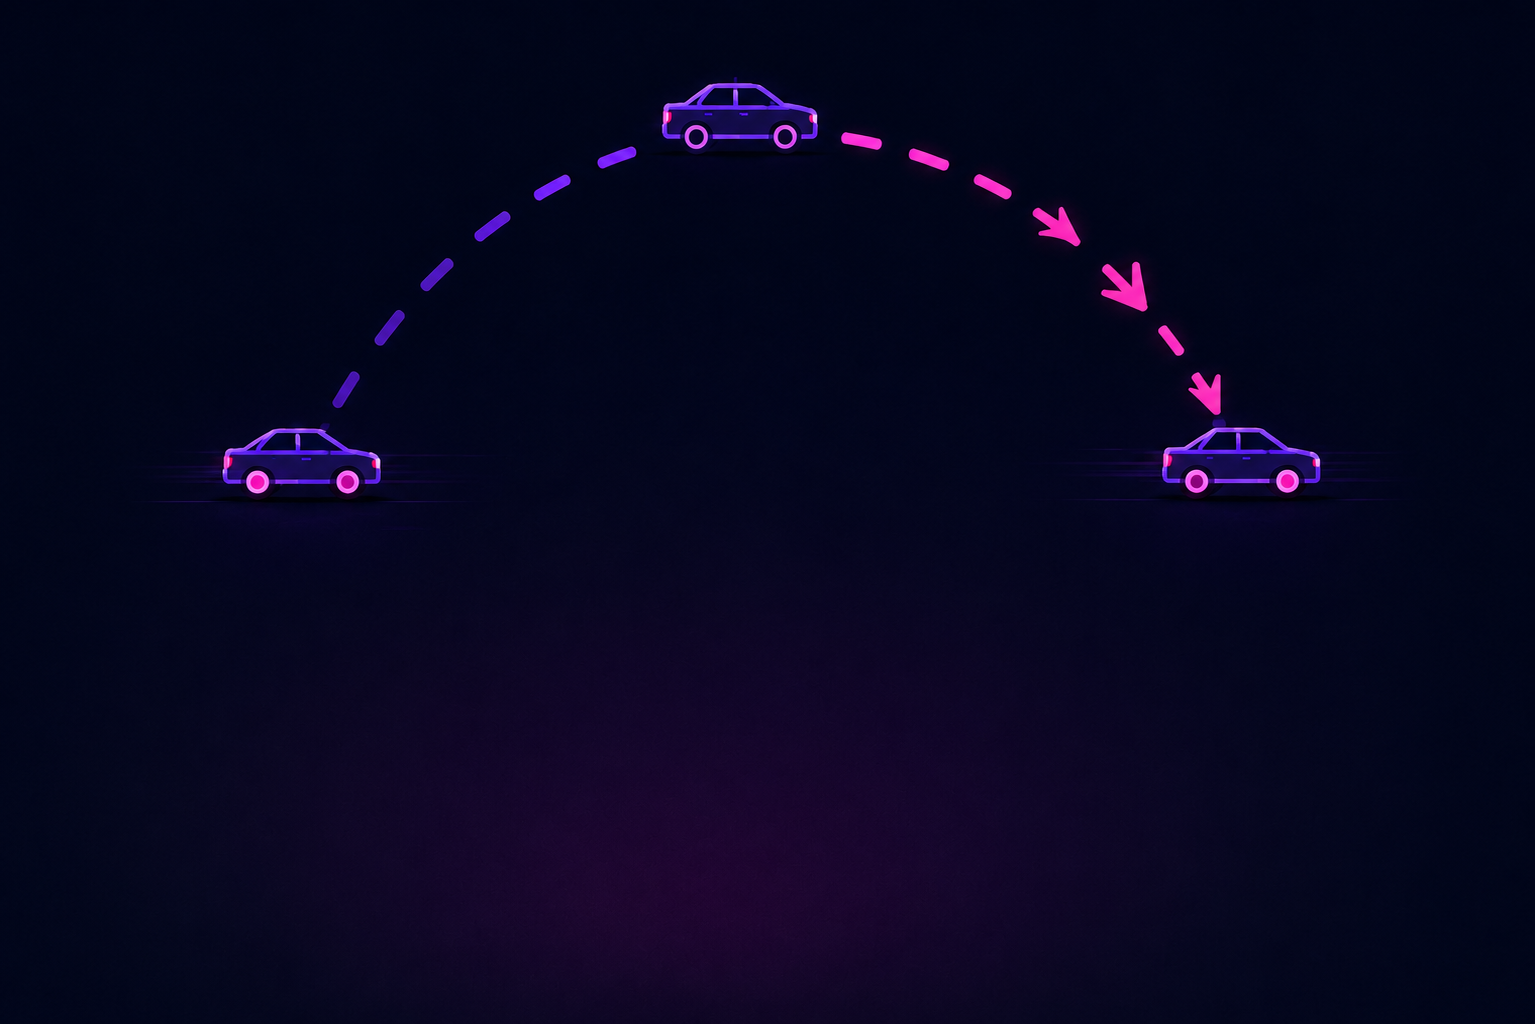
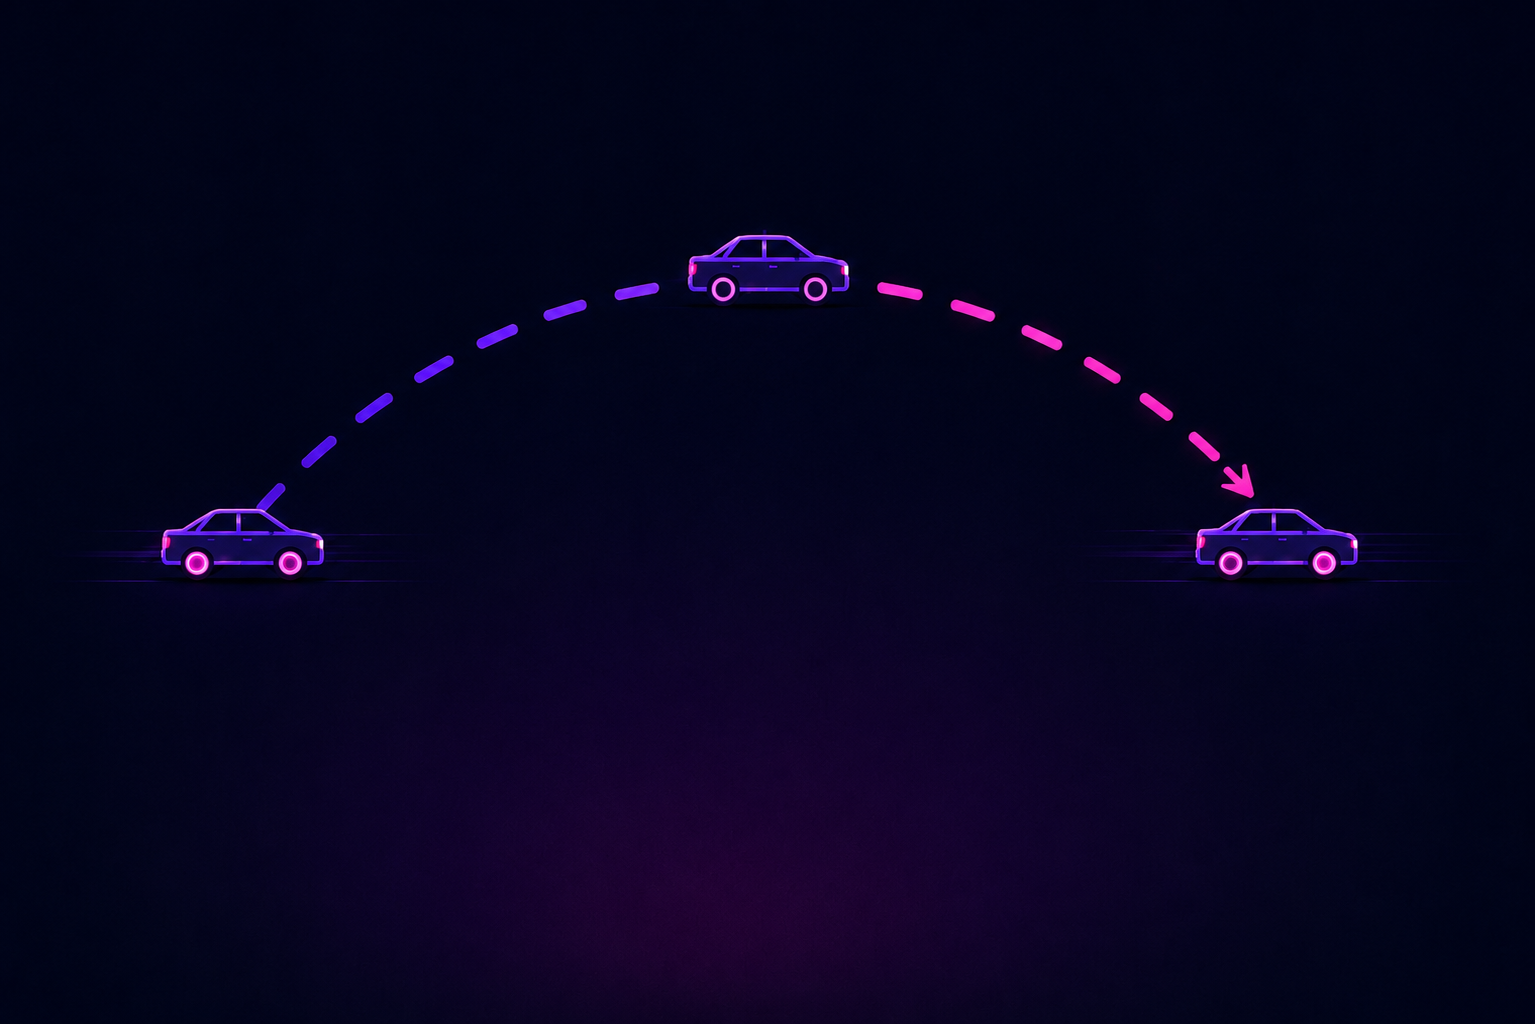
implemented conclusion page

diff --git a/index.html b/index.html
@@ -14,6 +14,7 @@
 <link rel="stylesheet" href="css/cases.css">
 <link rel="stylesheet" href="css/applications.css">
 <link rel="stylesheet" href="css/limitations.css">
+<link rel="stylesheet" href="css/conclusion.css">
 <link rel="stylesheet" href="css/animations.css">
 <link rel="stylesheet" href="css/responsive.css">
 </head>
@@ -360,17 +361,88 @@
 
 <!-- ============================= CONCLUSION ============================= -->
 <section class="conclusion" id="conclusion">
+  <div class="conclusion__bg"><span></span><span></span>
+    <svg viewBox="0 0 720 80" preserveAspectRatio="none" stroke-width="2"><path d="M0 60 Q 90 0 180 60 T 360 60 T 540 60 T 720 60"/></svg>
+    <svg viewBox="0 0 720 80" preserveAspectRatio="none" stroke-width="2"><path d="M0 60 Q 90 0 180 60 T 360 60 T 540 60 T 720 60"/></svg>
+  </div>
   <div class="wrap">
-    <div class="conclusion__box glass reveal">
-      <div>
-        <span class="eyebrow">CONCLUSION</span>
-        <h2>One idea, heard everywhere</h2>
-        <p>From a passing ambulance to the redshifted light of a distant galaxy, the Doppler effect is the same simple idea wearing different clothes: motion changes what a wave looks like to whoever receives it. Nine cases, one master formula â€” and once the sign convention clicks, every siren, whistle, and radar reading on this page becomes predictable rather than mysterious.</p>
+    <div class="conclusion__grid">
+      <div class="conclusion__left">
+        <span class="eyebrow reveal">CONCLUSION</span>
+        <h2 class="conclusion__title">
+          <span class="reveal">The Journey Ends.</span>
+          <span class="reveal" style="transition-delay:.12s">The Understanding Begins.</span>
+        </h2>
+        <div class="conclusion__desc reveal" style="transition-delay:.2s">
+          <p>You explored how motion changes the frequency of sound through interactive simulations and real world examples.</p>
+          <p>From stationary objects to moving sources and observers, every case revealed the same physical principle.</p>
+          <p>You discovered how the Doppler Effect is used in transportation, weather forecasting, medical imaging, and speed detection.</p>
+          <p>Every situation may look different, but they all follow one simple idea.</p>
+          <p><strong>Motion changes how waves are observed.</strong></p>
+          <p>The Doppler Effect is now a concept you can visualize, understand, and confidently apply.</p>
+        </div>
+        <blockquote class="conclusion__quote reveal" style="transition-delay:.28s">
+          <p class="conclusion__quote-main">One Principle. Infinite Applications.</p>
+          <p class="conclusion__quote-sub">Every wave tells a different story <svg class="conclusion__quote-link" viewBox="0 0 24 24" width="16" height="16" fill="none" stroke="currentColor" stroke-width="2" stroke-linecap="round" stroke-linejoin="round"><path d="M22 12h-4l-3 9L9 3l-3 9H2"/></svg> only motion changes the language.</p>
+        </blockquote>
       </div>
-      <div class="conclusion__stats">
-        <div class="stat"><b>1842</b><span>First described by Christian Doppler</span></div>
-        <div class="stat"><b>9</b><span>Motion cases simulated on this page</span></div>
-        <div class="stat"><b>1</b><span>Formula governs every one of them</span></div>
+      <aside class="conclusion__right">
+        <svg width="0" height="0" style="position:absolute" aria-hidden="true"><defs>
+          <linearGradient id="goldGrad" x1="0" y1="0" x2="1" y2="1">
+            <stop offset="0" stop-color="#FFE9A8"/>
+            <stop offset=".5" stop-color="#F5B830"/>
+            <stop offset="1" stop-color="#C98A1B"/>
+          </linearGradient>
+        </defs></svg>
+        <div class="conclusion__cards">
+          <div class="conclusion__card reveal" style="transition-delay:.1s">
+            <span class="conclusion__card-icon"><img src="assets/icons/checked.png" alt="" width="56" height="56"></span>
+            <b class="conclusion__card-num">1842</b>
+            <span class="conclusion__card-title">Christian Doppler</span>
+            <span class="conclusion__card-desc">Published the Theory</span>
+          </div>
+          <div class="conclusion__card reveal" style="transition-delay:.16s">
+            <span class="conclusion__card-icon"><img src="assets/icons/checked.png" alt="" width="56" height="56"></span>
+            <b class="conclusion__card-num">10</b>
+            <span class="conclusion__card-title">Interactive Cases</span>
+            <span class="conclusion__card-desc">Successfully Explored</span>
+          </div>
+          <div class="conclusion__card reveal" style="transition-delay:.22s">
+            <span class="conclusion__card-icon"><img src="assets/icons/checked.png" alt="" width="56" height="56"></span>
+            <b class="conclusion__card-num">5</b>
+            <span class="conclusion__card-title">Real-World Applications</span>
+            <span class="conclusion__card-desc">Discovered</span>
+          </div>
+          <div class="conclusion__card reveal" style="transition-delay:.28s">
+            <span class="conclusion__card-icon"><img src="assets/icons/checked.png" alt="" width="56" height="56"></span>
+            <b class="conclusion__card-num">4</b>
+            <span class="conclusion__card-title">Model Limitations</span>
+            <span class="conclusion__card-desc">Understood</span>
+          </div>
+          <div class="conclusion__card reveal" style="transition-delay:.34s">
+            <span class="conclusion__card-icon"><img src="assets/icons/checked.png" alt="" width="56" height="56"></span>
+            <b class="conclusion__card-num">1</b>
+            <span class="conclusion__card-title">Universal Principle</span>
+            <span class="conclusion__card-desc">Behind Every Case</span>
+          </div>
+          <div class="conclusion__card reveal" style="transition-delay:.4s">
+            <span class="conclusion__card-icon"><img src="assets/icons/checked.png" alt="" width="56" height="56"></span>
+            <b class="conclusion__card-num">Complete</b>
+            <span class="conclusion__card-title">Learning Journey</span>
+            <span class="conclusion__card-desc">Finished</span>
+          </div>
+        </div>
+      </aside>
+    </div>
+
+    <div class="conclusion__divider"></div>
+
+    <div class="conclusion__cta reveal">
+      <h3>Continue Exploring Physics</h3>
+      <p>Great discoveries begin with curiosity.<br>Replay the simulations, revisit the theory, or explore the real-world applications once again.</p>
+      <div class="conclusion__cta-btns">
+        <a href="#explore" class="conclusion__btn conclusion__btn--primary">Launch Simulations <svg viewBox="0 0 24 24" width="16" height="16" fill="none" stroke="currentColor" stroke-width="2.2" stroke-linecap="round" stroke-linejoin="round"><path d="M12 4v12m0 0 5-5m-5 5-5-5"/></svg></a>
+        <a href="#applications" class="conclusion__btn conclusion__btn--ghost">Explore Applications</a>
       </div>
     </div>
   </div>

diff --git a/css/conclusion.css b/css/conclusion.css
@@ -1,0 +1,168 @@
+/* ============================= CONCLUSION ============================= */
+.conclusion{
+  position:relative;overflow:hidden;padding:90px 0 120px;
+  background:#050816;
+}
+
+/* ---------- decorative background ---------- */
+.conclusion__bg{position:absolute;inset:0;z-index:0;pointer-events:none;overflow:hidden;}
+.conclusion__bg::before{
+  content:'';position:absolute;width:720px;height:720px;border-radius:50%;
+  background:radial-gradient(circle,rgba(94,162,255,.1),transparent 65%);
+  top:-260px;right:-160px;filter:blur(60px);
+}
+.conclusion__bg::after{
+  content:'';position:absolute;width:640px;height:640px;border-radius:50%;
+  background:radial-gradient(circle,rgba(139,92,246,.1),transparent 65%);
+  bottom:-240px;left:-140px;filter:blur(70px);
+}
+.conclusion__bg span{
+  position:absolute;border-radius:50%;filter:blur(40px);
+}
+.conclusion__bg span:nth-child(1){
+  width:300px;height:300px;background:radial-gradient(circle,rgba(94,162,255,.08),transparent 70%);
+  top:20%;left:42%;
+}
+.conclusion__bg span:nth-child(2){
+  width:240px;height:240px;background:radial-gradient(circle,rgba(43,232,201,.06),transparent 70%);
+  bottom:12%;right:16%;
+}
+.conclusion__bg svg{position:absolute;width:130%;height:140px;left:-15%;opacity:.04;stroke:#5EA2FF;fill:none;}
+.conclusion__bg svg:nth-of-type(1){top:28%;}
+.conclusion__bg svg:nth-of-type(2){bottom:20%;transform:scaleY(-1);stroke:#8B5CF6;}
+
+.conclusion .wrap{position:relative;z-index:1;}
+
+/* ---------- two-column layout ---------- */
+.conclusion__grid{display:grid;grid-template-columns:1.5fr 1fr;gap:64px;align-items:start;margin-bottom:100px;}
+.conclusion__right{margin-top:40px;}
+
+/* ---------- left: label / title / paragraphs / quote ---------- */
+.conclusion__left{min-width:0;}
+.conclusion__left .eyebrow{margin-bottom:20px;}
+.conclusion__title{
+  font-family:'Space Grotesk',var(--font-display);
+  font-size:clamp(44px,5.5vw,70px);font-weight:700;letter-spacing:-.02em;
+  line-height:1.02;color:#fff;margin-bottom:30px;
+}
+.conclusion__title span{display:block;}
+.conclusion__title span:last-child{
+  font-style:normal;
+  background:linear-gradient(120deg,#C77DFF,#9B5CFB);
+  -webkit-background-clip:text;background-clip:text;-webkit-text-fill-color:transparent;
+  filter:drop-shadow(0 0 26px rgba(155,92,251,.4));
+}
+.conclusion__desc{max-width:650px;}
+.conclusion__desc p{
+  font-family:'Nunito',sans-serif;font-size:18px;line-height:1.8;
+  color:rgba(255,255,255,.82);margin-bottom:18px;text-align:justify;
+}
+.conclusion__desc p:last-child{margin-bottom:0;}
+.conclusion__desc p strong{
+  color:#fff;font-weight:700;
+  background:linear-gradient(120deg,#5EA2FF,#8B5CF6);
+  -webkit-background-clip:text;background-clip:text;-webkit-text-fill-color:transparent;
+}
+
+.conclusion__quote{
+  margin:36px 0 0;padding:26px 30px;border-radius:20px;
+  background:linear-gradient(150deg,rgba(255,255,255,.05),rgba(255,255,255,.015));
+  backdrop-filter:blur(20px) saturate(140%);
+  -webkit-backdrop-filter:blur(20px) saturate(140%);
+  border:1px solid rgba(255,255,255,.09);
+  box-shadow:inset 0 1px 0 rgba(255,255,255,.05), 0 0 44px rgba(139,92,246,.14);
+}
+.conclusion__quote-main{
+  font-family:'Space Grotesk',var(--font-display);font-style:italic;
+  font-size:clamp(22px,2.6vw,30px);font-weight:800;letter-spacing:-.01em;
+  margin-bottom:8px;
+  background:linear-gradient(120deg,#5EA2FF,#8B5CF6);
+  -webkit-background-clip:text;background-clip:text;-webkit-text-fill-color:transparent;
+}
+.conclusion__quote-sub{font-family:'Nunito',sans-serif;font-size:15.5px;line-height:1.7;color:var(--text-dim);}
+.conclusion__quote-link{
+  display:inline-block;vertical-align:-2px;margin:0 3px;
+  stroke:url(#goldGrad);filter:drop-shadow(0 0 5px rgba(247,201,72,.4));
+}
+
+/* ---------- right: learning summary cards ---------- */
+.conclusion__cards{display:grid;gap:14px;}
+.conclusion__card{
+  position:relative;display:grid;grid-template-columns:auto 1fr;grid-template-rows:auto auto;
+  column-gap:16px;row-gap:2px;align-items:center;
+  padding:16px 20px;border-radius:18px;
+  background:rgba(255,255,255,.04);
+  border:1px solid rgba(255,255,255,.08);
+  transition:transform .35s ease,box-shadow .35s ease,border-color .35s ease;
+}
+.conclusion__card:hover{
+  transform:translateY(-6px) scale(1.02);
+  border-color:color-mix(in srgb,#5EA2FF 45%,transparent);
+  box-shadow:0 18px 44px -18px rgba(0,0,0,.7), 0 0 34px rgba(94,162,255,.16);
+}
+.conclusion__card-icon{
+  grid-row:1 / 3;grid-column:1;
+  display:flex;align-items:center;justify-content:center;
+}
+.conclusion__card-icon img{
+  width:56px;height:56px;object-fit:contain;display:block;
+}
+.conclusion__card-num{
+  grid-column:2;align-self:end;
+  font-family:'Space Grotesk',var(--font-display);font-size:23px;font-weight:800;line-height:1.2;
+  background:linear-gradient(120deg,#5EEAD4,#22D3EE);
+  -webkit-background-clip:text;background-clip:text;-webkit-text-fill-color:transparent;
+}
+.conclusion__card-title{
+  grid-column:2;align-self:start;
+  font-family:'Space Grotesk',var(--font-display);font-size:15.5px;font-weight:600;
+  color:var(--text);letter-spacing:.02em;
+}
+.conclusion__card-desc{
+  grid-column:2;font-family:'Nunito',sans-serif;font-size:12px;
+  color:var(--text-mute);line-height:1.4;
+}
+
+/* ---------- bottom divider ---------- */
+.conclusion__divider{
+  height:1px;margin-bottom:90px;position:relative;
+  background:linear-gradient(90deg,transparent,rgba(94,162,255,.5),rgba(139,92,246,.5),transparent);
+  box-shadow:0 0 18px rgba(110,140,255,.25);
+}
+
+/* ---------- final CTA ---------- */
+.conclusion__cta{text-align:center;max-width:720px;margin:0 auto;}
+.conclusion__cta h3{
+  font-family:'Space Grotesk',var(--font-display);
+  font-size:clamp(30px,4vw,44px);font-weight:800;letter-spacing:-.02em;
+  color:#fff;margin-bottom:16px;
+}
+.conclusion__cta p{
+  font-family:'Nunito',sans-serif;font-size:17px;line-height:1.8;
+  color:rgba(255,255,255,.78);margin-bottom:38px;
+}
+.conclusion__cta-btns{display:flex;justify-content:center;align-items:center;gap:18px;flex-wrap:wrap;}
+.conclusion__btn{
+  display:inline-flex;align-items:center;justify-content:center;gap:10px;
+  padding:16px 34px;border-radius:999px;text-decoration:none;
+  font-family:'Space Grotesk',var(--font-display);font-size:15.5px;font-weight:700;
+  transition:transform .3s ease,box-shadow .3s ease,background .3s ease,color .3s ease,border-color .3s ease;
+}
+.conclusion__btn--primary{
+  background:linear-gradient(135deg,#4F7DFF,#8B5CF6);
+  color:#fff;box-shadow:0 16px 40px -14px rgba(94,162,255,.5);
+}
+.conclusion__btn--primary:hover{
+  transform:translateY(-3px);
+  box-shadow:0 22px 50px -14px rgba(139,92,246,.6);
+}
+.conclusion__btn--ghost{
+  background:transparent;color:#fff;
+  border:1px solid rgba(255,255,255,.22);
+}
+.conclusion__btn--ghost:hover{
+  transform:translateY(-3px);
+  background:rgba(79,125,255,.22);
+  border-color:#5EA2FF;
+  box-shadow:0 14px 34px -14px rgba(94,162,255,.4);
+}

diff --git a/css/responsive.css b/css/responsive.css
@@ -43,4 +43,18 @@
 @media (max-width:440px){.lim-assumptions__grid{grid-template-columns:1fr;}}
 
 /* conclusion */
-@media (max-width:820px){.conclusion__box{grid-template-columns:1fr;padding:34px 26px;}}
+@media (max-width:1024px){
+  .conclusion__grid{grid-template-columns:1fr;gap:56px;margin-bottom:80px;}
+  .conclusion__right{margin-top:0;}
+}
+@media (max-width:620px){
+  .conclusion{padding:96px 0 90px;}
+  .conclusion__grid{text-align:center;}
+  .conclusion__left .eyebrow{justify-content:center;}
+  .conclusion__desc{margin:0 auto;text-align:left;}
+  .conclusion__quote{text-align:left;}
+  .conclusion__cards{max-width:440px;margin:0 auto;}
+  .conclusion__divider{margin-bottom:70px;}
+  .conclusion__cta-btns{flex-direction:column;}
+  .conclusion__btn{width:100%;max-width:340px;}
+}

diff --git a/css/cases.css b/css/cases.css
@@ -102,12 +102,4 @@
 
 
 
-/* ============================= CONCLUSION ============================= */
-.conclusion{padding:0 0 120px;}
-.conclusion__box{padding:54px;display:grid;grid-template-columns:1.2fr .8fr;gap:40px;align-items:center;}
-.conclusion__box h2{font-size:clamp(24px,3.4vw,34px);margin-bottom:16px;}
-.conclusion__box p{color:var(--text-dim);font-size:15.5px;}
-.conclusion__stats{display:grid;gap:14px;}
-.stat{border:1px solid var(--glass-border);border-radius:var(--radius-sm);padding:16px 18px;background:rgba(255,255,255,.02);}
-.stat b{display:block;font-family:var(--font-display);font-size:21px;background:var(--grad);-webkit-background-clip:text;background-clip:text;-webkit-text-fill-color:transparent;}
-.stat span{font-size:12.5px;color:var(--text-mute);}
+

diff --git a/css/limitations.css b/css/limitations.css
@@ -2,7 +2,7 @@
 .limits{
   --lim-blue:#4F8DFF;--lim-purple:#9B5CFB;--lim-pink:#FF4FB3;
   --lim-cyan:#3EC7FF;--lim-green:#37E38C;--lim-orange:#FFB84A;--lim-red:#FF5E5E;
-  position:relative;padding:72px 0 120px;overflow:hidden;
+  position:relative;padding:72px 0 0;overflow:hidden;
   font-family:'Inter',var(--font-body);
   background:
     radial-gradient(1100px 620px at 12% -6%,rgba(155,92,251,.14),transparent 60%),
